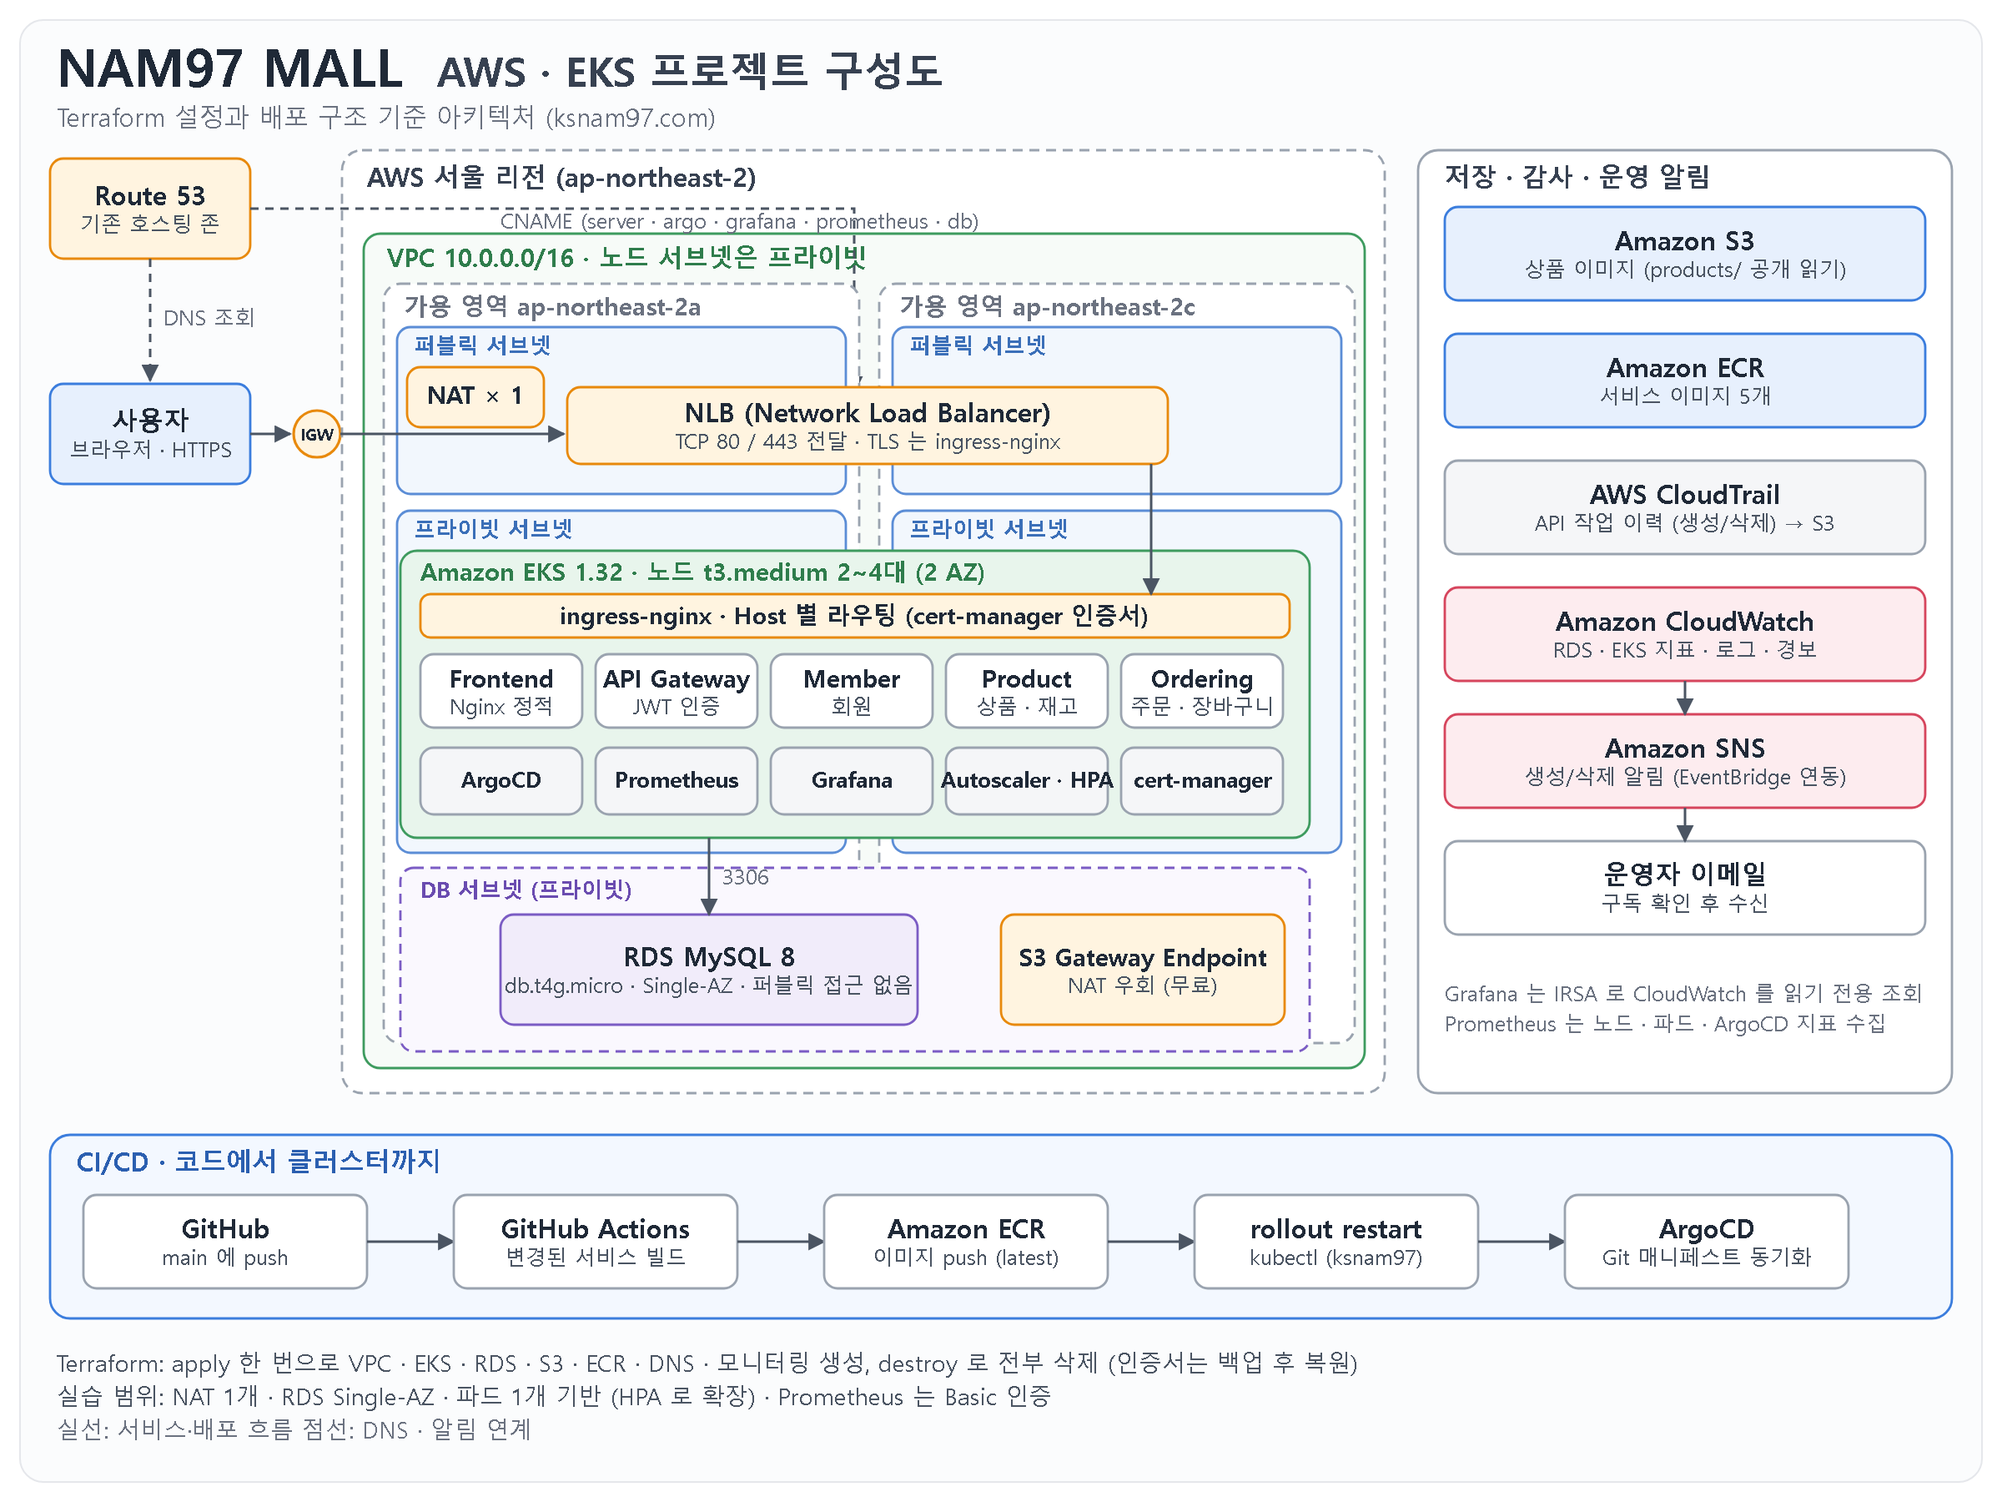
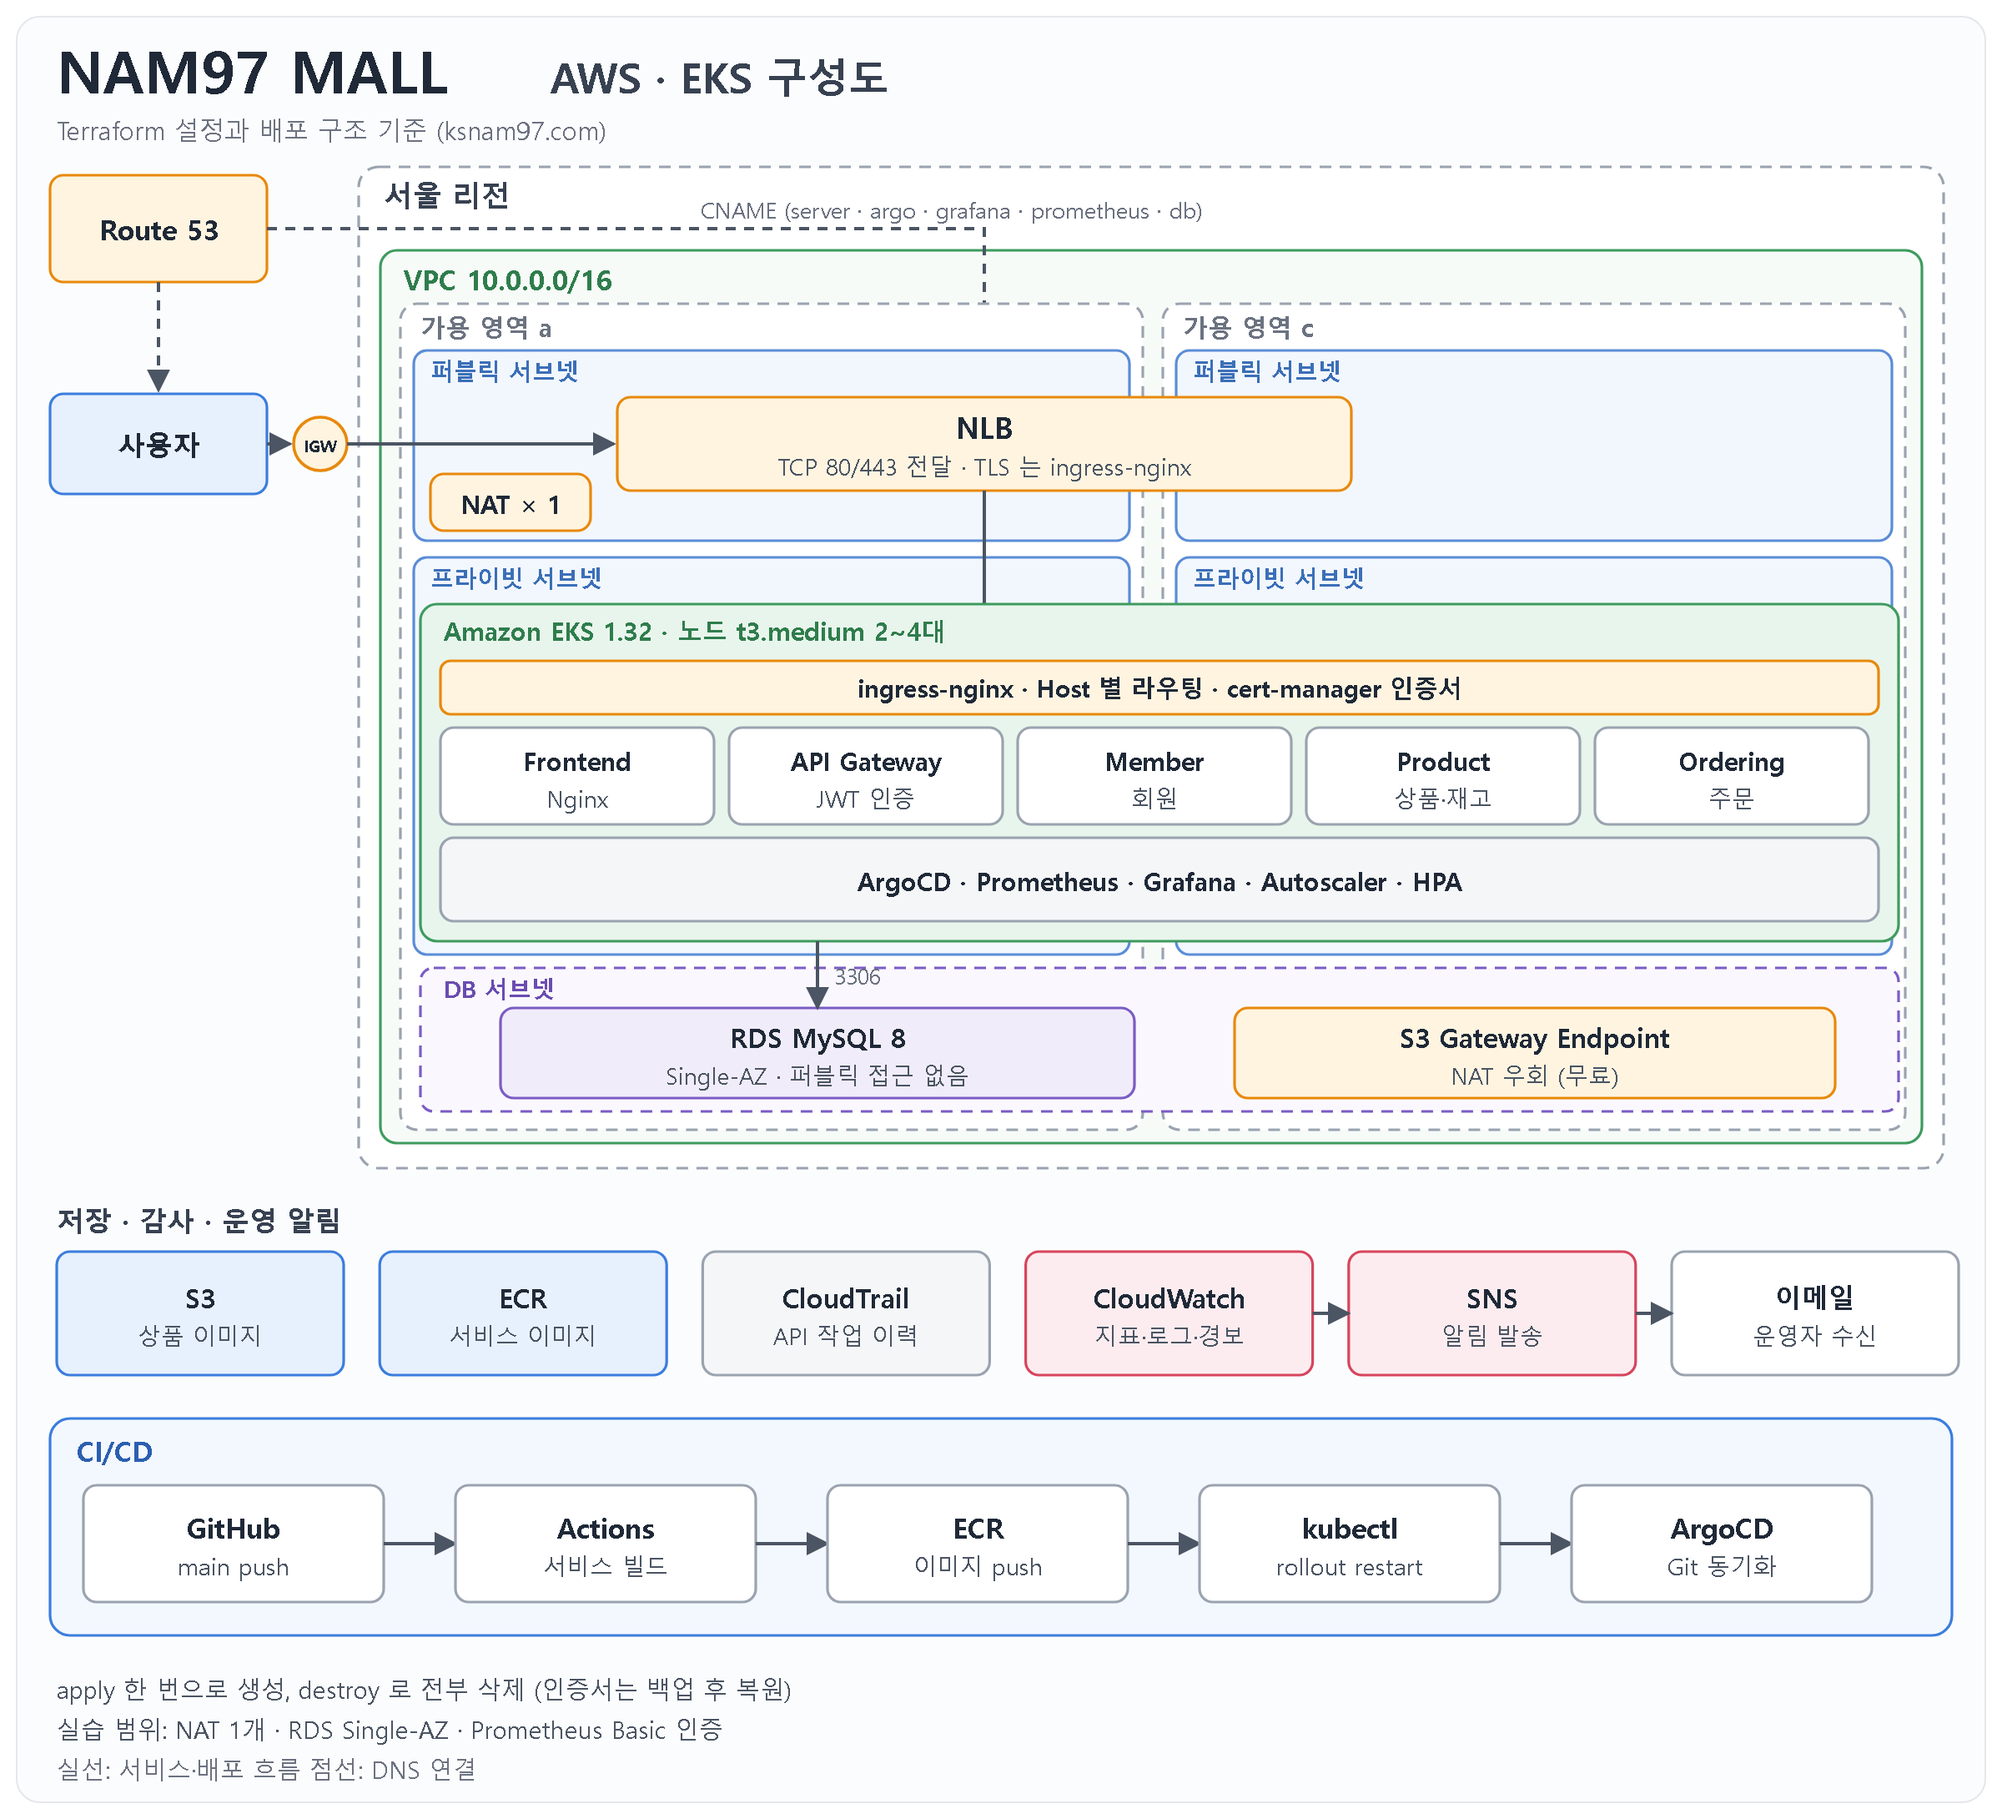
구성도 가독성 개선: 글자 대폭 확대, 레이아웃 단순화, README 는 PNG 사용 [skip ci]
- docs/images/architecture.svg: 글자 크기를 약 1.5배로 키우고 가로 배치로 단순화 (README 폭에서도 읽히도록)
- docs/images/architecture.png: 2400x2180 고해상도 이미지 (폰트 환경과 무관하게 동일하게 보임)
- README.md, docs/design/ARCHITECTURE.md: 구성도 이미지를 PNG 로 연결 (SVG 는 원본으로 유지)

Changed region(s): [[0.0, 0.0311, 1.0, 0.9956], [0.9688, 0.6844, 1.0, 0.7156]]

diff --git a/README.md b/README.md
@@ -5,7 +5,7 @@ AWS EKS 위에서 운영되는 **마이크로서비스(MSA) 쇼핑몰**입니다
 
 > 이 저장소는 포트폴리오용 공개 프로젝트입니다. 인프라는 필요할 때만 띄우고(`terraform apply`) 쓰지 않을 때는 모두 삭제(`terraform destroy`)하는 샌드박스 방식으로 운영합니다.
 
-![AWS EKS 프로젝트 구성도](docs/images/architecture.svg)
+![AWS EKS 프로젝트 구성도](docs/images/architecture.png)
 
 ## 문서
 

diff --git a/docs/design/ARCHITECTURE.md b/docs/design/ARCHITECTURE.md
@@ -4,7 +4,7 @@
 
 ## 1. 전체 구성도
 
-![AWS EKS 프로젝트 구성도](../images/architecture.svg)
+![AWS EKS 프로젝트 구성도](../images/architecture.png)
 
 ```mermaid
 flowchart LR
